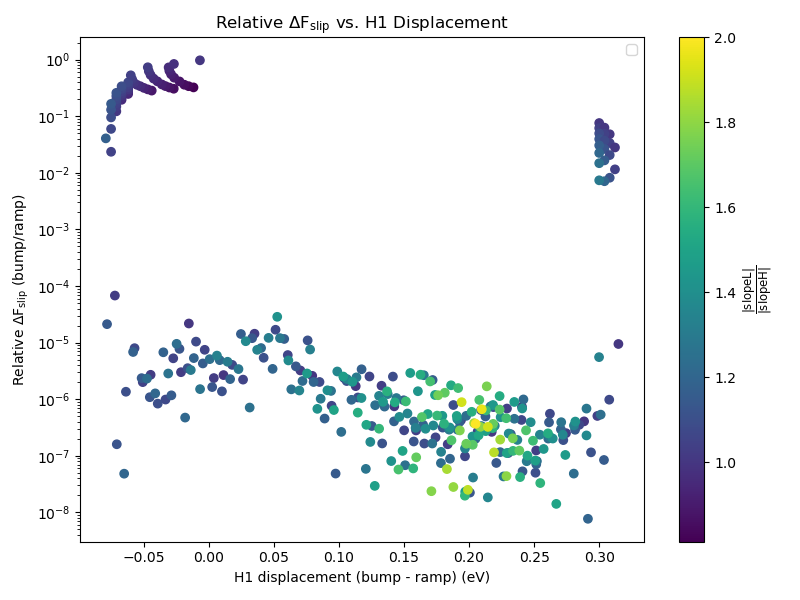
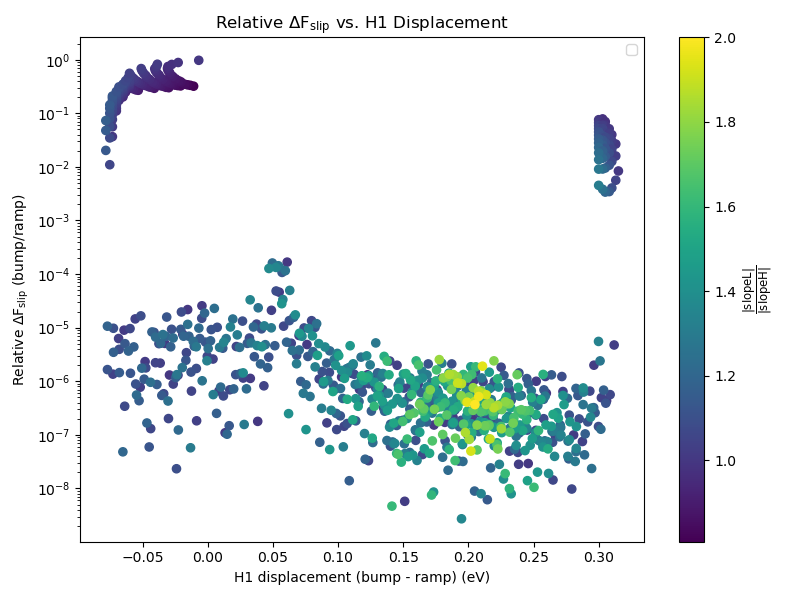
plot Fslip improvement with denser bump data

diff --git a/plots_bump.py b/plots_bump.py
@@ -157,7 +157,7 @@ def pH1_scatter(pH1_disp, F_slip_diff, slopeL, slopeH):
     Plot relative improvement in F_slip (bump/ramp) vs. displacement of H1. Plots all points colored by the ratio slopeL/slopeH
     '''
     plt.figure(figsize=(8, 6))
-    sc = plt.scatter(pH1_disp, F_slip_diff, c=abs(slopeL)/abs(slopeH))
+    sc = plt.scatter(pH1_disp, F_slip_diff, c=abs(slopeL)/abs(slopeH), s=35)
     cbar = plt.colorbar(sc)
     cbar.set_label(r'$\frac{|\mathrm{slopeL}|}{|\mathrm{slopeH}|}$', fontsize=12)
 
@@ -281,10 +281,10 @@ if __name__ == '__main__':
     grid_Fyield(F_slip_w, F_yield_w, slopeL_r, slopeH_r, slopeL_b, slopeH_b, F_yield_r, F_yield_b)
     '''
     
-    '''
+    
     # === bump vs ramp plots ===
     ramps = pd.read_csv("ramps_corner_bif_20250612.csv")
-    bump = pd.read_csv("BestBump_alpha1_corner_bif_20250611.csv")
+    bump = pd.read_csv("BestBump_alpha1_corner_bif_20250618.csv")
     ramps_coords = ramps[["slopeL", "slopeH"]].to_numpy()
     bump_coords = bump[["slopeL", "slopeH"]].to_numpy()
 
@@ -303,8 +303,8 @@ if __name__ == '__main__':
     slopeL = bump['slopeL']
     slopeH = bump['slopeH']
 
-    # choose function here
-    '''
+    pH1_scatter(pH1_disp, F_slip_diff, slopeL, slopeH)
+    
 
     '''
     # === constant bump vs. ramp ===
